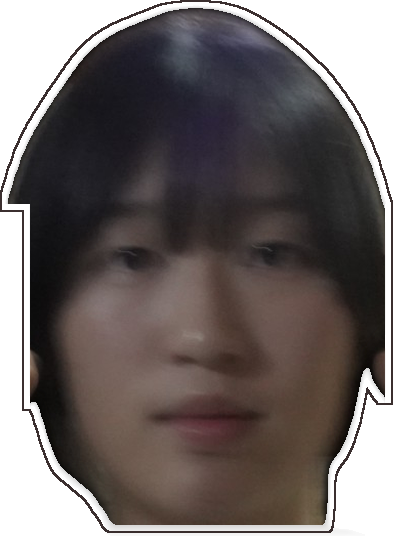
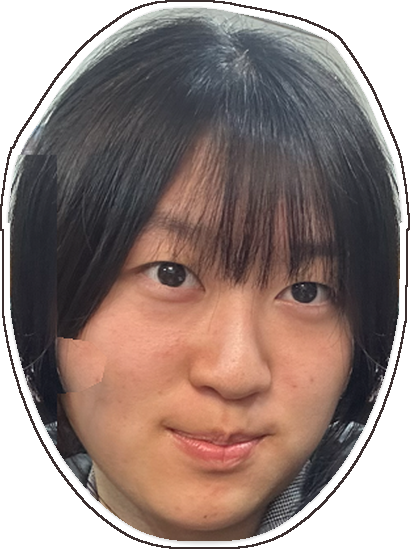
기본 얼굴을 새 사진으로 교체, 브이 포즈는 사진 손 제거 후 만화 손 적용
Claude-Session: https://claude.ai/code/session_01XpyVsz82qWs5FUh393Zrju

diff --git a/character.js b/character.js
@@ -11,10 +11,10 @@ function characterSVG({ face = 'blank', tool = true, hat = true, imgBase = 'img/
 
   // 머리 사진 배치 (가로 w, 세로 h, 아래 끝이 y=208 근처)
   const HEADS = {
-    blank: { file: 'head-blank.png', w: 140, h: 191, hatX: 130, hatS: 1.0, tilt: 0 },
+    blank: { file: 'head-blank.png', w: 142, h: 190, hatX: 130, hatS: 1.05, tilt: 0 },
     laugh: { file: 'head-laugh.png', w: 166, h: 192, hatX: 124, hatS: 1.1, tilt: -9 },
-    peace: { file: 'head-peace.png', w: 250, h: 171, hatX: 131, hatS: 0.82, tilt: 0 },
-    tired: { file: 'head-blank.png', w: 140, h: 191, hatX: 130, hatS: 1.0, tilt: 6 },
+    peace: { file: 'head-peace.png', w: 128, h: 195, hatX: 131, hatS: 0.95, tilt: 0 },
+    tired: { file: 'head-blank.png', w: 142, h: 190, hatX: 130, hatS: 1.05, tilt: 6 },
   };
   const H = HEADS[face] || HEADS.blank;
   const bottom = 212;
@@ -38,6 +38,21 @@ function characterSVG({ face = 'blank', tool = true, hat = true, imgBase = 'img/
       <path d="M198 268 L230 268 L226 300 Q214 312 202 300 Z" fill="#9aa3ad" ${s}/>
     </g>`;
 
+  // 브이 손 (만화 손)
+  const vHand = (x, y, flip) => `
+    <g transform="translate(${x} ${y}) scale(${flip * 1.25} 1.25)">
+      <rect x="-10" y="-30" width="8" height="25" rx="4" fill="${SKIN}" ${s} transform="rotate(-16 -6 -5)"/>
+      <rect x="2" y="-30" width="8" height="25" rx="4" fill="${SKIN}" ${s} transform="rotate(16 6 -5)"/>
+      <circle cx="0" cy="2" r="12" fill="${SKIN}" ${s}/>
+      <path d="M-6 0 q6 5 12 0" fill="none" stroke="#d9a58a" stroke-width="2"/>
+    </g>`;
+  const peaceArms = `
+    <path d="M86 206 Q60 196 56 150" fill="none" stroke="${L}" stroke-width="25" stroke-linecap="round"/>
+    <path d="M86 206 Q60 196 56 150" fill="none" stroke="${HOOD_D}" stroke-width="19" stroke-linecap="round"/>
+    <path d="M174 206 Q200 196 204 150" fill="none" stroke="${L}" stroke-width="25" stroke-linecap="round"/>
+    <path d="M174 206 Q200 196 204 150" fill="none" stroke="${HOOD_D}" stroke-width="19" stroke-linecap="round"/>
+    ${vHand(55, 140, 1)}${vHand(205, 140, -1)}`;
+
   const sweat = face === 'tired' ? `
     <path d="M190 70 q7 12 0 19 q-7 -7 0 -19Z" fill="#8fd0ff" stroke="#4a9ad8" stroke-width="2"/>
     <path d="M60 96 q6 10 0 16 q-6 -6 0 -16Z" fill="#8fd0ff" stroke="#4a9ad8" stroke-width="2"/>
@@ -60,11 +75,12 @@ function characterSVG({ face = 'blank', tool = true, hat = true, imgBase = 'img/
     <text x="130" y="262" text-anchor="middle" font-size="20" font-weight="900" fill="${BLUE}"
           stroke="#fff" stroke-width="3" paint-order="stroke" font-family="sans-serif">노가다</text>
     <!-- 팔 -->
+    ${face === 'peace' ? peaceArms : `
     <ellipse cx="78" cy="238" rx="11" ry="27" fill="${HOOD_D}" ${s} transform="rotate(14 78 238)"/>
     <circle cx="73" cy="263" r="9" fill="${SKIN}" ${s}/>
     ${shovel}
     <ellipse cx="184" cy="234" rx="11" ry="25" fill="${HOOD_D}" ${s} transform="rotate(-28 184 234)"/>
-    <circle cx="201" cy="250" r="9" fill="${SKIN}" ${s}/>
+    <circle cx="201" cy="250" r="9" fill="${SKIN}" ${s}/>`}
     ${hatSVG}
     ${sweat}
   </svg>`;
